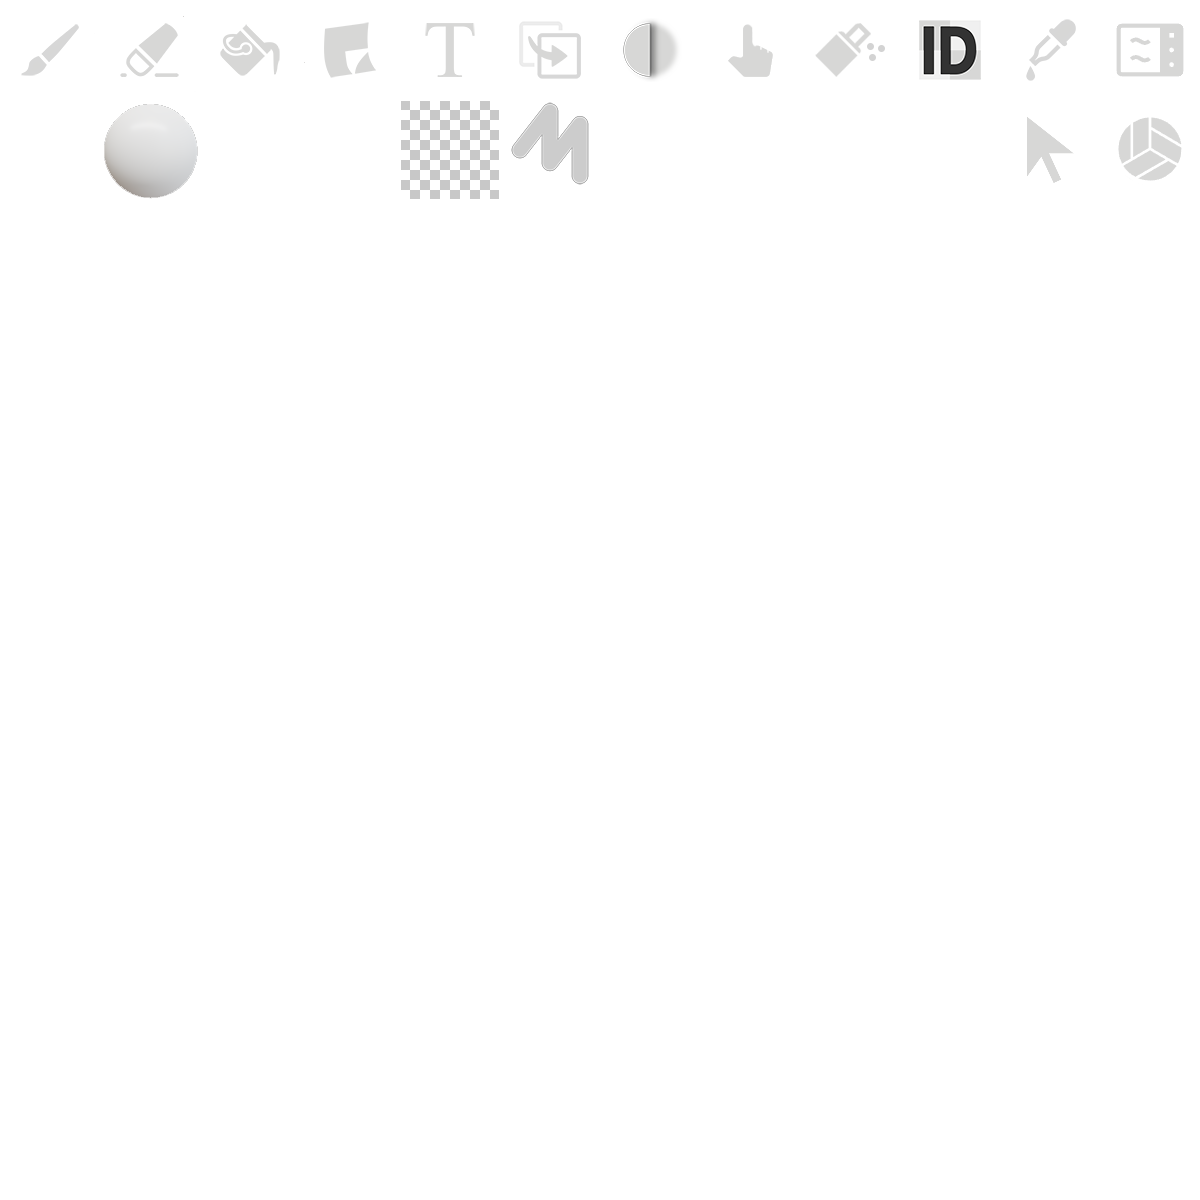
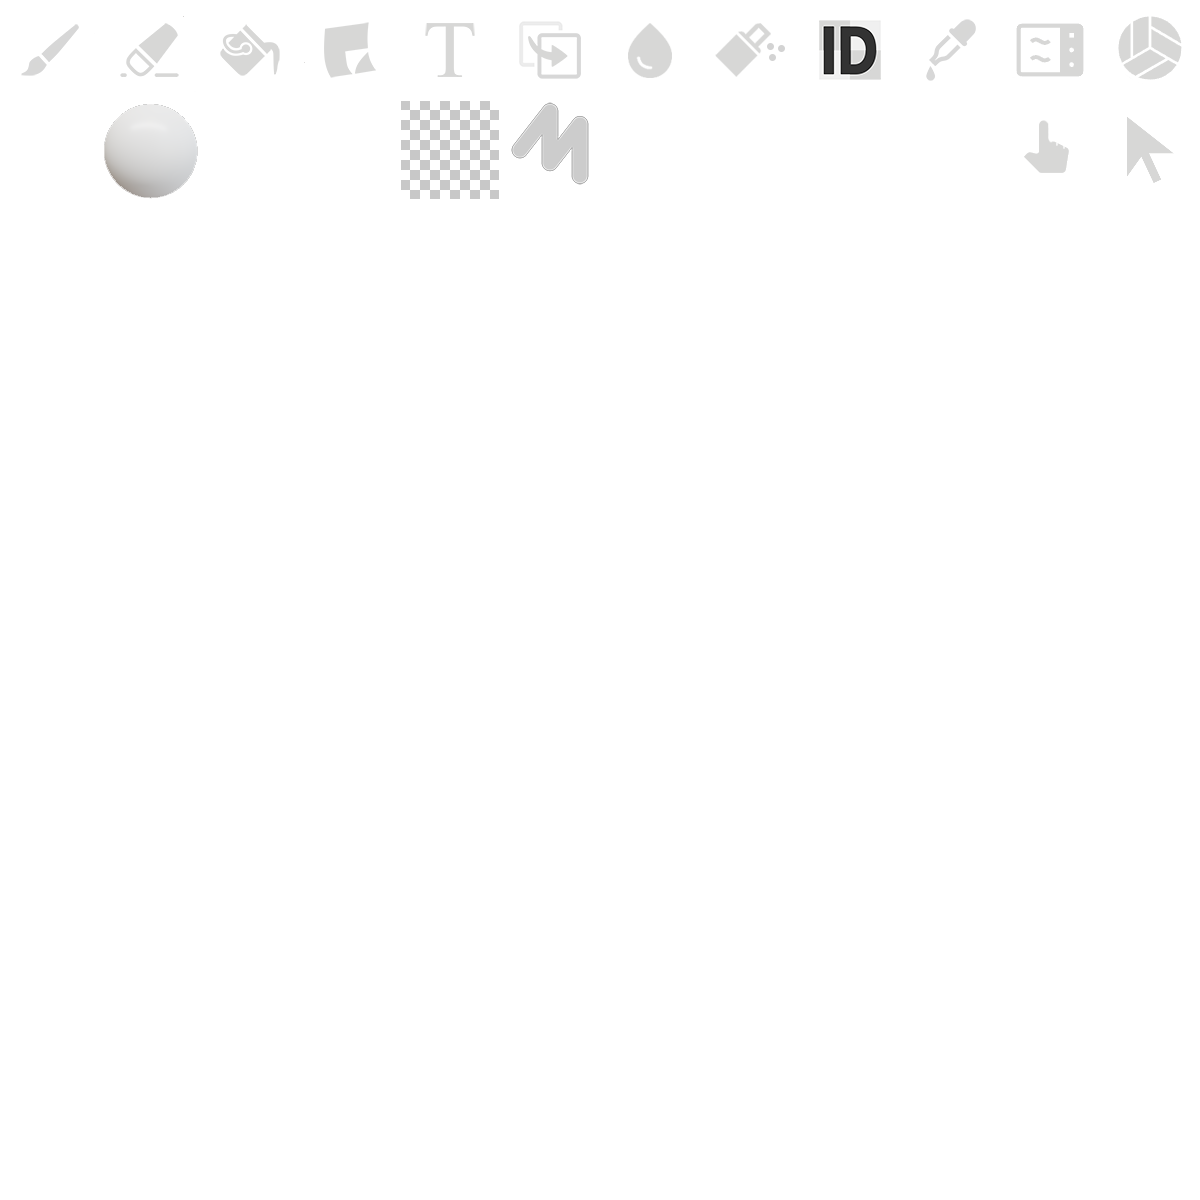
paint: merge smudge into blur tool

diff --git a/paint/sources/enums.h b/paint/sources/enums.h
@@ -229,14 +229,18 @@ typedef enum {
 	TOOL_TYPE_TEXT     = 4,
 	TOOL_TYPE_CLONE    = 5,
 	TOOL_TYPE_BLUR     = 6,
-	TOOL_TYPE_SMUDGE   = 7,
-	TOOL_TYPE_PARTICLE = 8,
-	TOOL_TYPE_COLORID  = 9,
-	TOOL_TYPE_PICKER   = 10,
-	TOOL_TYPE_BAKE     = 11,
-	TOOL_TYPE_MATERIAL = 12,
-	TOOL_TYPE_CURSOR   = 13,
+	TOOL_TYPE_PARTICLE = 7,
+	TOOL_TYPE_COLORID  = 8,
+	TOOL_TYPE_PICKER   = 9,
+	TOOL_TYPE_BAKE     = 10,
+	TOOL_TYPE_MATERIAL = 11,
+	TOOL_TYPE_CURSOR   = 12,
 } tool_type_t;
+
+typedef enum {
+	BLUR_TYPE_BLUR   = 0,
+	BLUR_TYPE_SMUDGE = 1,
+} blur_type_t;
 
 typedef enum {
 	TAB_AREA_SIDEBAR0 = 0,
@@ -305,11 +309,11 @@ typedef enum {
 	ICON_TEXT             = 4,
 	ICON_CLONE            = 5,
 	ICON_BLUR             = 6,
-	ICON_SMUDGE           = 7,
-	ICON_PARTICLE         = 8,
-	ICON_COLOR_ID         = 9,
-	ICON_PICKER           = 10,
-	ICON_BAKE             = 11,
+	ICON_PARTICLE         = 7,
+	ICON_COLOR_ID         = 8,
+	ICON_PICKER           = 9,
+	ICON_BAKE             = 10,
+	ICON_MATERIAL         = 11,
 	ICON_DROP             = 12,
 	ICON_MATERIAL_PREVIEW = 13,
 	ICON_FOLDER_FULL      = 14,
@@ -320,8 +324,8 @@ typedef enum {
 	ICON_PROPERTIES       = 19,
 	ICON_FOLDER_OPEN      = 20,
 	ICON_EMPTY            = 21,
-	ICON_CURSOR           = 22,
-	ICON_MATERIAL         = 23,
+	ICON_SMUDGE           = 22,
+	ICON_CURSOR           = 23,
 	ICON_MENU             = 24,
 	ICON_FILE_NEW         = 25,
 	ICON_FOLDER           = 26,

diff --git a/paint/sources/ui_header.c b/paint/sources/ui_header.c
@@ -473,7 +473,7 @@ void ui_header_draw_tool_properties() {
 	}
 	else if (g_context->tool == TOOL_TYPE_BRUSH || g_context->tool == TOOL_TYPE_ERASER || g_context->tool == TOOL_TYPE_FILL ||
 	         g_context->tool == TOOL_TYPE_DECAL || g_context->tool == TOOL_TYPE_TEXT || g_context->tool == TOOL_TYPE_CLONE ||
-	         g_context->tool == TOOL_TYPE_BLUR || g_context->tool == TOOL_TYPE_SMUDGE || g_context->tool == TOOL_TYPE_PARTICLE) {
+	         g_context->tool == TOOL_TYPE_BLUR || g_context->tool == TOOL_TYPE_PARTICLE) {
 		bool decal_mask = context_is_decal_mask();
 		if (g_context->tool != TOOL_TYPE_FILL) {
 			if (decal_mask) {
@@ -628,6 +628,19 @@ void ui_header_draw_tool_properties() {
 		if (g_context->tool == TOOL_TYPE_PARTICLE) {
 			if (ui_button(tr("Particle"), UI_ALIGN_CENTER, "")) {
 				ui_menu_draw(&ui_header_particle_menu_draw, -1, -1);
+			}
+		}
+
+		if (g_context->tool == TOOL_TYPE_BLUR) {
+			string_array_t *blur_type_combo = any_array_create_from_raw(
+			    (void *[]){
+			        tr("Blur"),
+			        tr("Smudge"),
+			    },
+			    2);
+			g_context->blur_type = ui_combo(g_context->blur_type_handle, blur_type_combo, tr("Blur Type"), false, UI_ALIGN_LEFT, true);
+			if (g_context->blur_type_handle->changed) {
+				make_material_parse_paint_material(true);
 			}
 		}
 

diff --git a/paint/sources/base.c b/paint/sources/base.c
@@ -1185,9 +1185,6 @@ void ui_base_update(void *_) {
 			else if (operator_shortcut(any_map_get(config_keymap, "tool_blur"), SHORTCUT_TYPE_STARTED)) {
 				context_select_tool(TOOL_TYPE_BLUR);
 			}
-			else if (operator_shortcut(any_map_get(config_keymap, "tool_smudge"), SHORTCUT_TYPE_STARTED)) {
-				context_select_tool(TOOL_TYPE_SMUDGE);
-			}
 			else if (operator_shortcut(any_map_get(config_keymap, "tool_particle"), SHORTCUT_TYPE_STARTED)) {
 				context_select_tool(TOOL_TYPE_PARTICLE);
 			}
@@ -1211,7 +1208,7 @@ void ui_base_update(void *_) {
 		// Radius
 		if (g_context->tool == TOOL_TYPE_BRUSH || g_context->tool == TOOL_TYPE_ERASER || g_context->tool == TOOL_TYPE_DECAL ||
 		    g_context->tool == TOOL_TYPE_TEXT || g_context->tool == TOOL_TYPE_CLONE || g_context->tool == TOOL_TYPE_BLUR ||
-		    g_context->tool == TOOL_TYPE_SMUDGE || g_context->tool == TOOL_TYPE_PARTICLE) {
+		    g_context->tool == TOOL_TYPE_PARTICLE) {
 			if (operator_shortcut(any_map_get(config_keymap, "brush_radius"), SHORTCUT_TYPE_STARTED) ||
 			    operator_shortcut(any_map_get(config_keymap, "brush_opacity"), SHORTCUT_TYPE_STARTED) ||
 			    operator_shortcut(any_map_get(config_keymap, "brush_angle"), SHORTCUT_TYPE_STARTED) ||
@@ -1671,7 +1668,7 @@ void ui_base_render_cursor(void *_) {
 			}
 		}
 		if (g_context->tool == TOOL_TYPE_BRUSH || g_context->tool == TOOL_TYPE_ERASER || g_context->tool == TOOL_TYPE_CLONE ||
-		    g_context->tool == TOOL_TYPE_BLUR || g_context->tool == TOOL_TYPE_SMUDGE || g_context->tool == TOOL_TYPE_PARTICLE ||
+		    g_context->tool == TOOL_TYPE_BLUR || g_context->tool == TOOL_TYPE_PARTICLE ||
 		    (decal_mask && context_in_2d_view(VIEW_2D_TYPE_LAYER))) {
 			if (decal_mask) {
 				psize = math_floor(cursor_img->width * (g_context->brush_decal_mask_radius * g_context->brush_nodes_radius) * UI_SCALE());
@@ -1685,7 +1682,7 @@ void ui_base_render_cursor(void *_) {
 
 	if (g_context->brush_lazy_radius > 0 && !g_context->brush_locked && !slot_layer_is_path(g_context->layer) &&
 	    (g_context->tool == TOOL_TYPE_BRUSH || g_context->tool == TOOL_TYPE_ERASER || g_context->tool == TOOL_TYPE_DECAL || g_context->tool == TOOL_TYPE_TEXT ||
-	     g_context->tool == TOOL_TYPE_CLONE || g_context->tool == TOOL_TYPE_BLUR || g_context->tool == TOOL_TYPE_SMUDGE ||
+	     g_context->tool == TOOL_TYPE_CLONE || g_context->tool == TOOL_TYPE_BLUR ||
 	     g_context->tool == TOOL_TYPE_PARTICLE)) {
 		draw_filled_rect(mx - 1, my - 1, 2, 2);
 		mx         = g_context->brush_lazy_x * base_w() + base_x();

diff --git a/paint/sources/make_paint.c b/paint/sources/make_paint.c
@@ -228,7 +228,7 @@ node_shader_context_t *make_paint_run(material_t *data, material_context_t *matc
 	node_shader_add_constant(kong, "brush_hardness: float", "_brush_hardness");
 
 	if (g_context->tool == TOOL_TYPE_BRUSH || g_context->tool == TOOL_TYPE_ERASER || g_context->tool == TOOL_TYPE_CLONE || g_context->tool == TOOL_TYPE_BLUR ||
-	    g_context->tool == TOOL_TYPE_SMUDGE || g_context->tool == TOOL_TYPE_PARTICLE || decal) {
+	    g_context->tool == TOOL_TYPE_PARTICLE || decal) {
 
 		bool depth_reject = !g_context->xray;
 		if (!g_config->brush_depth_reject) {
@@ -292,7 +292,7 @@ node_shader_context_t *make_paint_run(material_t *data, material_context_t *matc
 
 	make_texcoord_run(kong);
 
-	if (g_context->tool == TOOL_TYPE_CLONE || g_context->tool == TOOL_TYPE_BLUR || g_context->tool == TOOL_TYPE_SMUDGE) {
+	if (g_context->tool == TOOL_TYPE_CLONE || g_context->tool == TOOL_TYPE_BLUR) {
 		node_shader_add_texture(kong, "gbuffer2", NULL);
 		node_shader_add_constant(kong, "gbuffer_size: float2", "_gbuffer_size");
 		node_shader_add_texture(kong, "texpaint_undo", "_texpaint_undo");
@@ -382,7 +382,7 @@ node_shader_context_t *make_paint_run(material_t *data, material_context_t *matc
 
 	if (g_context->brush_stencil_image != NULL &&
 	    (g_context->tool == TOOL_TYPE_BRUSH || g_context->tool == TOOL_TYPE_ERASER || g_context->tool == TOOL_TYPE_FILL || g_context->tool == TOOL_TYPE_CLONE ||
-	     g_context->tool == TOOL_TYPE_BLUR || g_context->tool == TOOL_TYPE_SMUDGE || g_context->tool == TOOL_TYPE_PARTICLE || decal)) {
+	     g_context->tool == TOOL_TYPE_BLUR || g_context->tool == TOOL_TYPE_PARTICLE || decal)) {
 		node_shader_add_texture(kong, "texbrushstencil", "_texbrushstencil");
 		node_shader_add_constant(kong, "texbrushstencil_size: float2", "_size(_texbrushstencil)");
 		node_shader_add_constant(kong, "stencil_transform: float4", "_stencil_transform");
@@ -506,7 +506,7 @@ node_shader_context_t *make_paint_run(material_t *data, material_context_t *matc
 		node_shader_write_frag(kong, "var out_a: float = sample_undo.a * (1.0 - str);");
 		node_shader_write_frag(kong, "output[0] = float4(sample_undo.rgb, out_a);");
 	}
-	else if ((g_context->tool == TOOL_TYPE_BLUR || g_context->tool == TOOL_TYPE_SMUDGE) && !is_mask) {
+	else if (g_context->tool == TOOL_TYPE_BLUR && !is_mask) {
 		node_shader_write_frag(kong, "var t_blur: float = str / max(blur_src_alpha, 0.0000001);");
 		node_shader_write_frag(kong, "var out_a: float = str + sample_undo.a * (1.0 - t_blur);");
 		node_shader_write_frag(kong,

diff --git a/paint/sources/kickstart.c b/paint/sources/kickstart.c
@@ -86,7 +86,6 @@ void _kickstart() {
 	        _tr("Text"),
 	        _tr("Clone"),
 	        _tr("Blur"),
-	        _tr("Smudge"),
 	        _tr("Particle"),
 	        _tr("ColorID"),
 	        _tr("Picker"),
@@ -94,7 +93,7 @@ void _kickstart() {
 	        _tr("Material"),
 	        _tr("Cursor"),
 	    },
-	    14);
+	    13);
 	gc_root(ui_toolbar_tool_names);
 
 	ui_toolbar_tooltip_extras = any_array_create_from_raw(
@@ -112,9 +111,8 @@ void _kickstart() {
 	        "",
 	        "",
 	        "",
-	        "",
 	    },
-	    14);
+	    13);
 	gc_root(ui_toolbar_tooltip_extras);
 	uniforms_ext_ortho_p = mat4_ortho(-0.5, 0.5, -0.5, 0.5, -0.5, 0.5);
 

diff --git a/paint/sources/render_path_paint.c b/paint/sources/render_path_paint.c
@@ -388,7 +388,7 @@ void render_path_paint_commands_paint(bool dilation) {
 
 		// Read texcoords from gbuffer
 		bool read_tc = (g_context->tool == TOOL_TYPE_FILL && g_context->fill_type_handle->i == FILL_TYPE_FACE) || g_context->tool == TOOL_TYPE_CLONE ||
-		               g_context->tool == TOOL_TYPE_BLUR || g_context->tool == TOOL_TYPE_SMUDGE;
+		               g_context->tool == TOOL_TYPE_BLUR;
 
 		if (g_context->tool == TOOL_TYPE_PARTICLE) {
 			render_path_paint_commands_particle(tid, texpaint, is_mask);
@@ -565,7 +565,7 @@ void render_path_paint_commands_symmetry() {
 void render_path_paint_commands_live_brush() {
 	tool_type_t tool = g_context->tool;
 	if (tool != TOOL_TYPE_BRUSH && tool != TOOL_TYPE_ERASER && tool != TOOL_TYPE_CLONE && tool != TOOL_TYPE_DECAL && tool != TOOL_TYPE_TEXT &&
-	    tool != TOOL_TYPE_BLUR && tool != TOOL_TYPE_SMUDGE) {
+	    tool != TOOL_TYPE_BLUR) {
 		return;
 	}
 
@@ -657,7 +657,7 @@ void render_path_paint_draw_cursor(f32 mx, f32 my, f32 radius, f32 tint_r, f32 t
 void render_path_paint_commands_cursor() {
 	bool        decal_mask = context_is_decal_mask();
 	tool_type_t tool       = g_context->tool;
-	if (tool != TOOL_TYPE_BRUSH && tool != TOOL_TYPE_ERASER && tool != TOOL_TYPE_CLONE && tool != TOOL_TYPE_BLUR && tool != TOOL_TYPE_SMUDGE &&
+	if (tool != TOOL_TYPE_BRUSH && tool != TOOL_TYPE_ERASER && tool != TOOL_TYPE_CLONE && tool != TOOL_TYPE_BLUR &&
 	    tool != TOOL_TYPE_PARTICLE && !decal_mask) {
 		return;
 	}

diff --git a/paint/sources/context.c b/paint/sources/context.c
@@ -174,6 +174,8 @@ context_t *context_create() {
 	c->sym_y                             = false;
 	c->sym_z                             = false;
 	c->fill_type_handle                  = ui_handle_create();
+	c->blur_type_handle                  = ui_handle_create();
+	c->blur_type                         = BLUR_TYPE_BLUR;
 	c->paint2d                           = false;
 	c->maximized_sidebar_width           = 0;
 	c->drag_dest                         = 0;

diff --git a/paint/sources/make_blur.c b/paint/sources/make_blur.c
@@ -61,7 +61,7 @@ void make_blur_run(node_shader_t *kong) {
 
 	node_shader_add_constant(kong, "texpaint_size: float2", "_texpaint_size");
 	node_shader_write_frag(kong, "var blur_step: float = 1.0 / constants.texpaint_size.x;");
-	if (g_context->tool == TOOL_TYPE_SMUDGE) {
+	if (g_context->blur_type == BLUR_TYPE_SMUDGE) {
 		// node_shader_write_frag(kong, "const blur_weight: float[7] = {1.0 / 28.0, 2.0 / 28.0, 3.0 / 28.0, 4.0 / 28.0, 5.0 / 28.0, 6.0 / 28.0, 7.0 / 28.0};");
 		node_shader_add_function(kong, str_get_smudge_tool_weight);
 		node_shader_add_constant(kong, "brush_direction: float3", "_brush_direction");

diff --git a/paint/sources/make_sculpt.c b/paint/sources/make_sculpt.c
@@ -101,7 +101,7 @@ node_shader_context_t *sculpt_make_sculpt_run(material_t *data, material_context
 	node_shader_add_constant(kong, "brush_hardness: float", "_brush_hardness");
 
 	if (g_context->tool == TOOL_TYPE_BRUSH || g_context->tool == TOOL_TYPE_ERASER || g_context->tool == TOOL_TYPE_CLONE || g_context->tool == TOOL_TYPE_BLUR ||
-	    g_context->tool == TOOL_TYPE_SMUDGE || g_context->tool == TOOL_TYPE_PARTICLE || decal) {
+	    g_context->tool == TOOL_TYPE_PARTICLE || decal) {
 		node_shader_write_frag(kong, "var dist: float = 0.0;");
 		node_shader_write_frag(kong, "var depth: float = sample_lod(gbufferD, sampler_linear, constants.inp.xy, 0.0).r;");
 		node_shader_add_constant(kong, "invVP: float4x4", "_inv_view_proj_matrix");

diff --git a/paint/sources/render_path_base.c b/paint/sources/render_path_base.c
@@ -62,7 +62,7 @@ void render_path_base_begin() {
 
 	// Match projection matrix jitter
 	bool skip_taa = g_context->split_view || g_context->viewport_mode == VIEWPORT_MODE_PATH_TRACE || g_context->camera_type == CAMERA_TYPE_ORTHOGRAPHIC ||
-	                ((g_context->tool == TOOL_TYPE_CLONE || g_context->tool == TOOL_TYPE_BLUR || g_context->tool == TOOL_TYPE_SMUDGE) && g_context->pdirty > 0);
+	                ((g_context->tool == TOOL_TYPE_CLONE || g_context->tool == TOOL_TYPE_BLUR) && g_context->pdirty > 0);
 
 	if (skip_taa || g_config->brush_live) {
 		scene_camera->frame = 0;

diff --git a/paint/sources/types.h b/paint/sources/types.h
@@ -369,6 +369,8 @@ typedef struct context {
 	bool                 sym_y;
 	bool                 sym_z;
 	struct ui_handle    *fill_type_handle;
+	struct ui_handle    *blur_type_handle;
+	i32                  blur_type;
 	bool                 paint2d;
 	i32                  maximized_sidebar_width;
 	i32                  drag_dest;

diff --git a/paint/sources/keymap.c b/paint/sources/keymap.c
@@ -94,7 +94,6 @@ any_map_t *keymap_get_default() {
 	any_map_set(keymap, "tool_text", "t");
 	any_map_set(keymap, "tool_clone", "l");
 	any_map_set(keymap, "tool_blur", "u");
-	any_map_set(keymap, "tool_smudge", "m");
 	any_map_set(keymap, "tool_particle", "p");
 	any_map_set(keymap, "tool_colorid", "c");
 	any_map_set(keymap, "tool_picker", "v");